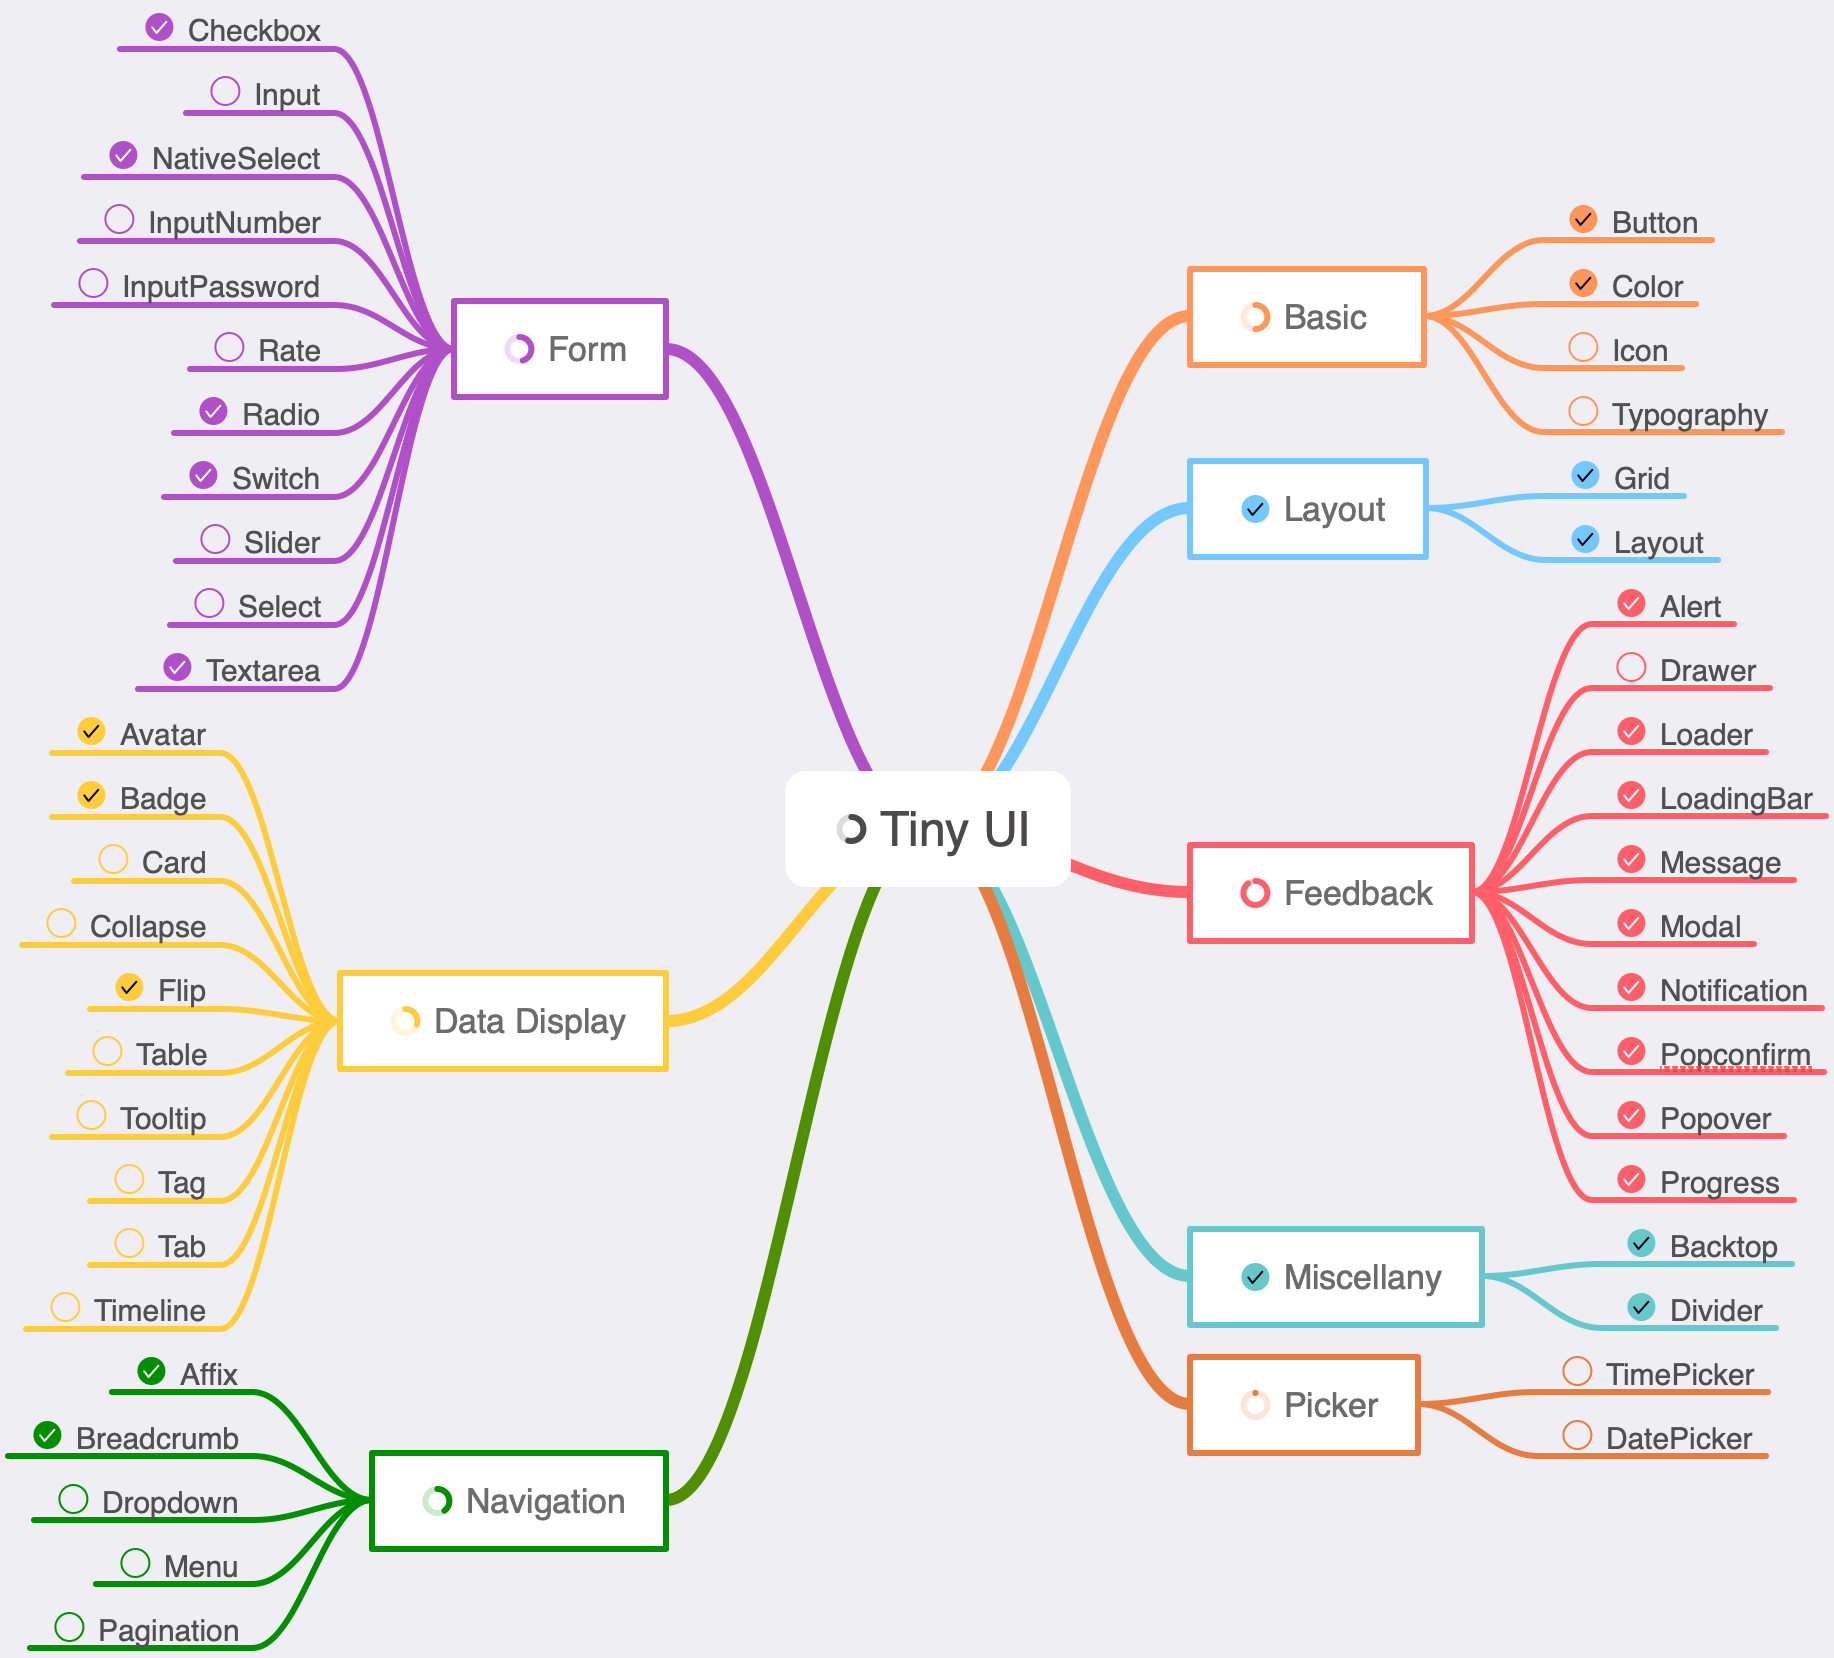
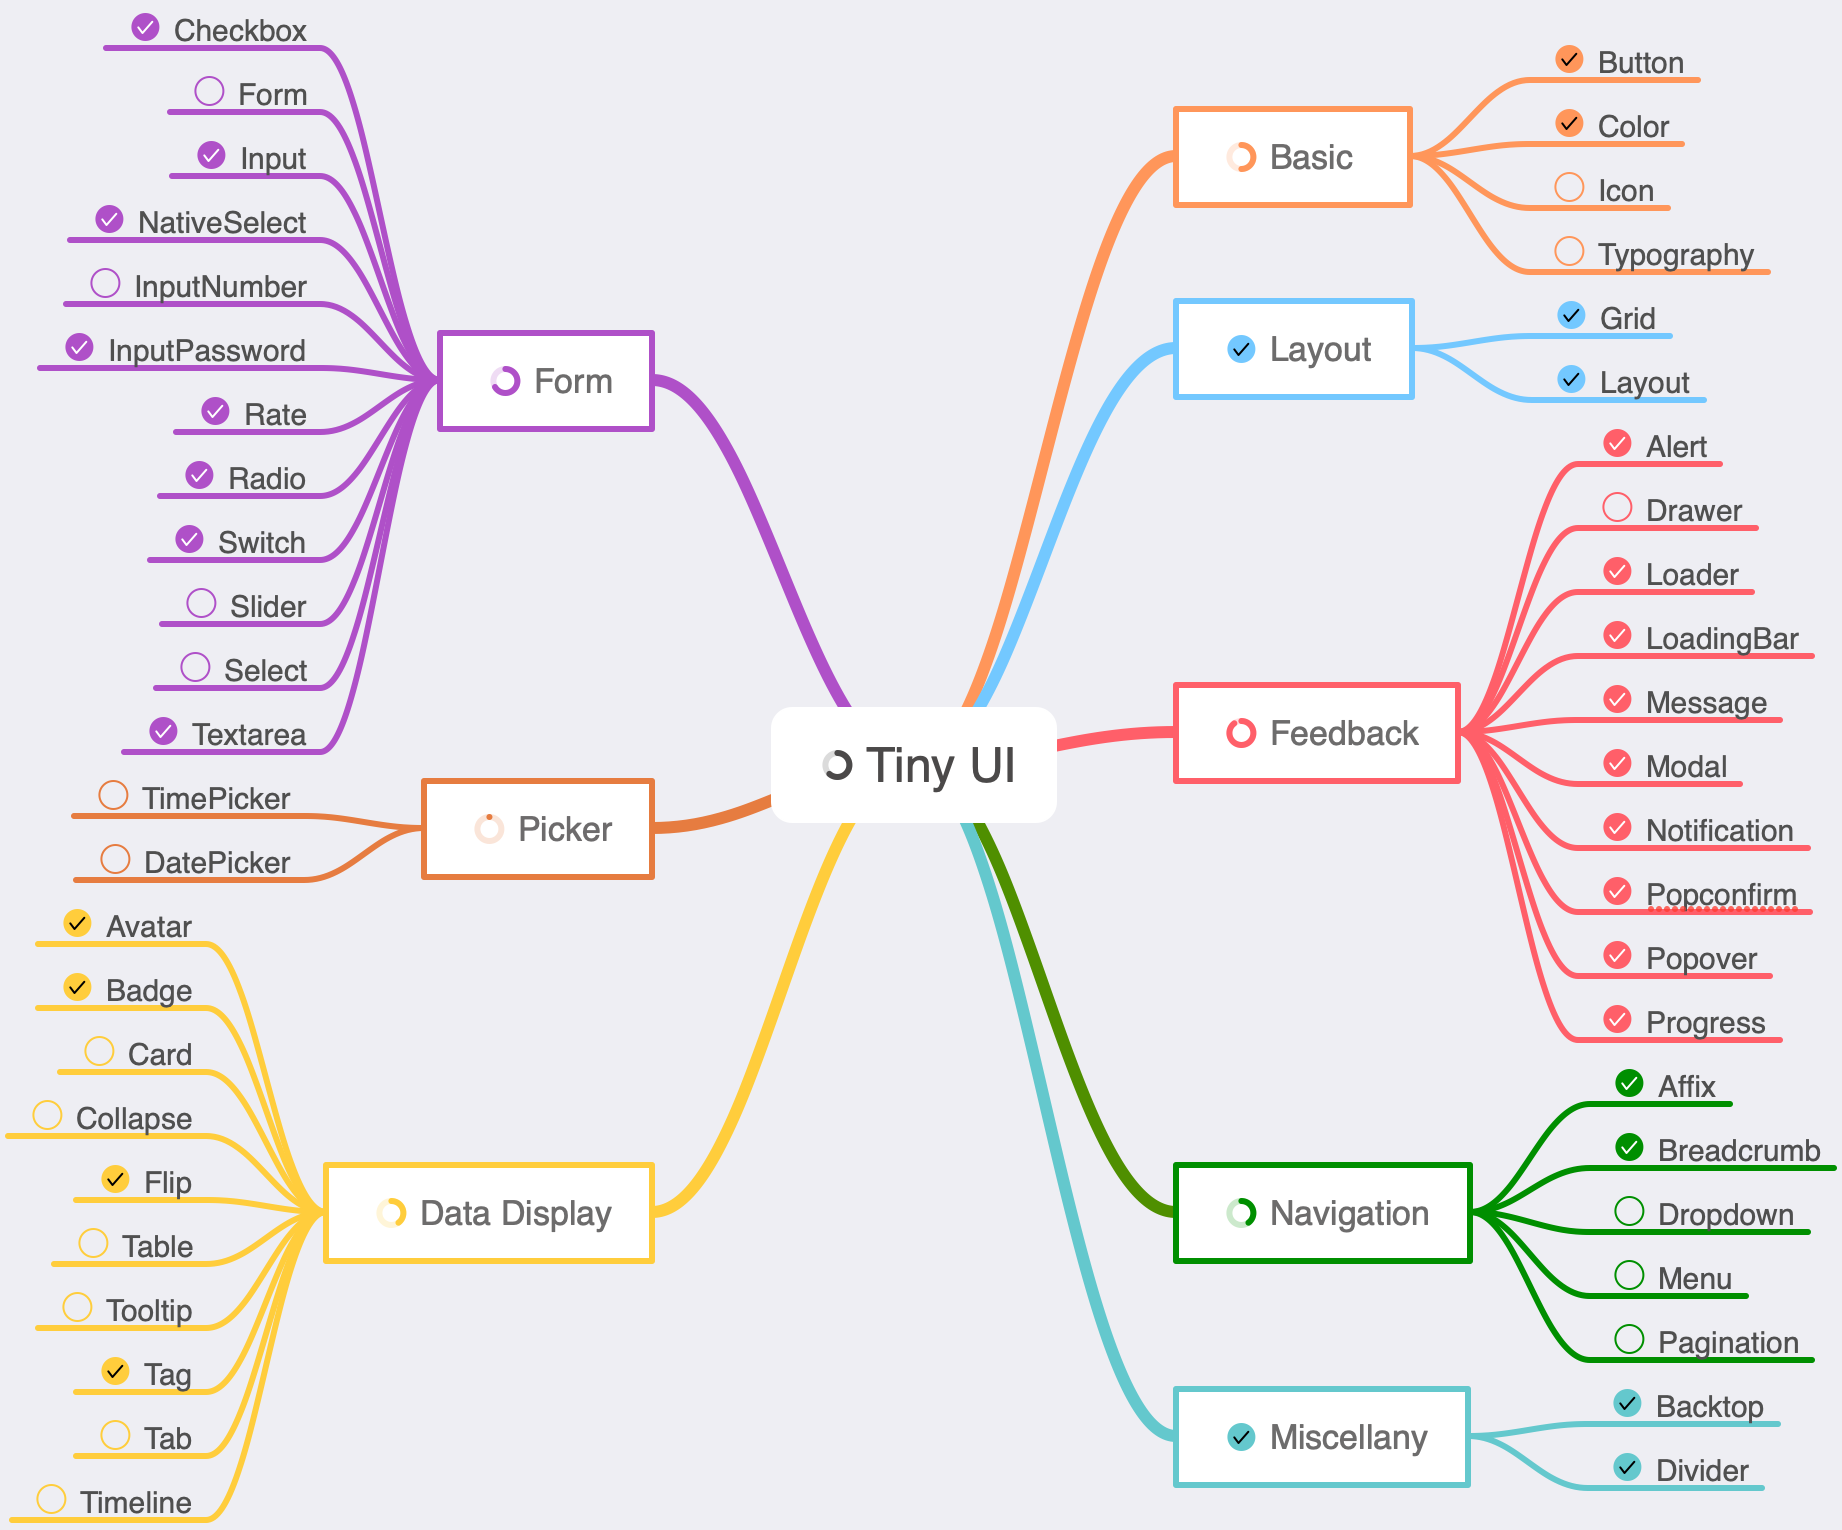
dev: tag component

Changed region(s): [[0.0, 0.0, 0.9945, 1.0]]

diff --git a/core/src/tag/index.tsx b/core/src/tag/index.tsx
@@ -1,0 +1,61 @@
+import React, { useState, MouseEvent } from 'react';
+import classnames from 'classnames';
+import CheckableTag from './checkable-tag';
+
+const PresetColors = ['magenta', 'red', 'volcano', 'orange', 'gold', 'lime', 'green', 'cyan',
+    'blue', 'geekblue', 'purple'];
+
+export type TagProps = {
+    color?: string,
+    closable?: boolean,
+    onClose?: (e: MouseEvent) => void,
+    onClick?: (e: MouseEvent) => void,
+    visible?: boolean,
+    prefixCls?: string,
+    className?: string,
+    style?: React.CSSProperties,
+    children?: React.ReactNode,
+} & typeof defaultProps;
+
+const defaultProps = {
+    prefixCls: 'ty-tag',
+    closable: false,
+    visible: true,
+};
+
+const Tag = (props: TagProps) => {
+    const { color, closable, onClose, onClick, prefixCls, className, style, children } = props;
+    const [visible, setVisible] = useState(('visible' in props) ? props.visible : true);
+    const cls = classnames(prefixCls, className, {
+        [`${prefixCls}_${color}`]: color && PresetColors.includes(color),
+        [`${prefixCls}_visible`]: visible,
+        [`${prefixCls}_closeable`]: closable,
+    });
+
+    /**
+     * Callback when the close button is clicked.
+     * @param e
+     */
+    const closeBtnOnClick = (e: MouseEvent) => {
+        onClose && onClose(e);
+        setVisible(false);
+    };
+
+    const tagStyle: React.CSSProperties = {
+        color: color ? (PresetColors.includes(color) ? undefined : color) : undefined,
+        ...style,
+    };
+
+    return (
+        <div className={cls} style={tagStyle} onClick={onClick}>
+            {children}
+            {closable && <span className={`${prefixCls}__close-btn`} onClick={closeBtnOnClick}>✕</span>}
+        </div>
+    );
+};
+
+Tag.defaultProps = defaultProps;
+
+Tag.CheckableTag = CheckableTag;
+
+export default Tag;

diff --git a/core/themes/components/tag.scss b/core/themes/components/tag.scss
@@ -1,0 +1,109 @@
+@import "../variables";
+
+.#{$prefix}tag {
+  user-select: none;
+  display: none;
+  margin-right: 8px;
+  padding: 0 7px;
+  font-size: 12px;
+  border: 1px solid #d9d9d9;;
+  border-radius: $tag-border-radius;
+  color: $font-color;
+  background: #fafafa;
+
+  &_visible {
+    display: inline-block;
+  }
+
+  &__close-btn {
+    cursor: pointer;
+    font-size: 10px;
+    margin-left: 5px;
+    line-height: 1;
+    transition: all 300ms;
+
+    &:hover {
+      opacity: 0.8;
+    }
+  }
+
+  &_magenta {
+    color: #eb2f96;
+    background: #fff0f6;
+    border-color: #ffadd2;
+  }
+
+  &_red {
+    color: #f5222d;
+    background: #fff1f0;
+    border-color: #ffa39e;
+  }
+
+  &_volcano {
+    color: #fa541c;
+    background: #fff2e8;
+    border-color: #ffbb96;
+  }
+
+  &_orange {
+    color: #fa8c16;
+    background: #fff7e6;
+    border-color: #ffd591;
+  }
+
+  &_gold {
+    color: #faad14;
+    background: #fffbe6;
+    border-color: #ffe58f;
+  }
+
+  &_lime {
+    color: #a0d911;
+    background: #fcffe6;
+    border-color: #eaff8f;
+  }
+
+  &_green {
+    color: #52c41a;
+    background: #f6ffed;
+    border-color: #b7eb8f;
+  }
+
+  &_cyan {
+    color: #13c2c2;
+    background: #e6fffb;
+    border-color: #87e8de;
+  }
+
+  &_blue {
+    color: #1890ff;
+    background: #e6f7ff;
+    border-color: #91d5ff;
+  }
+
+  &_geekblue {
+    color: #2f54eb;
+    background: #f0f5ff;
+    border-color: #adc6ff;
+  }
+
+  &_purple {
+    color: #722ed1;
+    background: #f9f0ff;
+    border-color: #d3adf7;
+  }
+}
+
+.#{$prefix}checkable-tag {
+  background-color: #fff;
+  color: $primary-color;
+  border-color: #fff;
+  transition: all 300ms;
+  cursor: pointer;
+
+  &_checked {
+    background-color: $primary-color;
+    color: #fff;
+    border-color: $primary-color;
+  }
+}

diff --git a/core/src/tag/checkable-tag.tsx b/core/src/tag/checkable-tag.tsx
@@ -1,0 +1,54 @@
+import React, { MouseEvent, useState, useEffect } from 'react';
+import classnames from 'classnames';
+import Tag from '.';
+
+export type CheckableTagProps = {
+    visible?: boolean,
+    defaultChecked?: boolean,
+    checked?: boolean,
+    onChange?: (checked: boolean, e: MouseEvent) => void,
+    prefixCls?: string,
+    className?: string,
+    style?: React.CSSProperties,
+    children?: React.ReactNode,
+} & typeof defaultProps;
+
+const defaultProps = {
+    prefixCls: 'ty-checkable-tag',
+    defaultChecked: true,
+};
+
+const CheckableTag = (props: CheckableTagProps) => {
+    const { visible, onChange, prefixCls, className, style, children } = props;
+    const [checked, setChecked] = useState(('checked' in props) ? props.checked : props.defaultChecked);
+    const cls = classnames(prefixCls, className, {
+        [`${prefixCls}_checked`]: checked,
+    });
+
+    /**
+     * Callback when the tag itself is clicked.
+     */
+    const itemOnClick = (e: MouseEvent) => {
+        const state = !checked;
+        !('checked' in props) && setChecked(state);
+        onChange && onChange(state, e);
+    };
+
+    useEffect(() => {
+        ('checked' in props) && setChecked(props.checked);
+    });
+
+    return (
+        <Tag
+            className={cls}
+            style={style}
+            visible={visible}
+            onClick={itemOnClick}>
+            {children}
+        </Tag>
+    );
+};
+
+CheckableTag.defaultProps = defaultProps;
+
+export default CheckableTag;

diff --git a/core/src/_utils/general.ts b/core/src/_utils/general.ts
@@ -21,3 +21,20 @@ export const camelCaseToDash = (str: string) => {
         return '-' + word.toLowerCase();
     });
 };
+
+/**
+ * Covert hex color to rgb color including alpha channel
+ * @param color: hex color
+ * @param opacity: max 1
+ */
+export const convertHexToRGBA = (color: string, opacity: number = 1): string => {
+    if (/^#[0-9A-F]{6}$/i.test(color)) {
+        const hex = color.replace('#', '');
+        const r = parseInt(hex.substring(0, 2), 16);
+        const g = parseInt(hex.substring(2, 4), 16);
+        const b = parseInt(hex.substring(4, 6), 16);
+
+        return `rgba(${r},${g},${b},${opacity})`;
+    }
+    return color;
+};

diff --git a/core/src/index.ts b/core/src/index.ts
@@ -35,6 +35,7 @@ export { default as Progress } from './progress';
 export { default as Radio } from './radio';
 export { default as Rate } from './rate';
 export { default as Switch } from './switch';
+export { default as Tag } from './tag';
 export { default as Textarea } from './textarea';
 export { default as TimePicker } from './time-picker';
 export { default as Typography } from './typography';

diff --git a/core/themes/components/index.scss b/core/themes/components/index.scss
@@ -31,6 +31,7 @@
 @import "row.scss";
 @import "select-native.scss";
 @import "switch.scss";
+@import "tag.scss";
 @import "tooltip.scss";
 @import "textarea.scss";
 @import "time-picker.scss";

diff --git a/core/themes/_variables.scss b/core/themes/_variables.scss
@@ -131,3 +131,6 @@ $notification-margin: 20px            !default;
 
 //breadcrumb
 $breadcrumb-font-size: $font-size     !default;
+
+//tag
+$tag-border-radius: 3px               !default;
